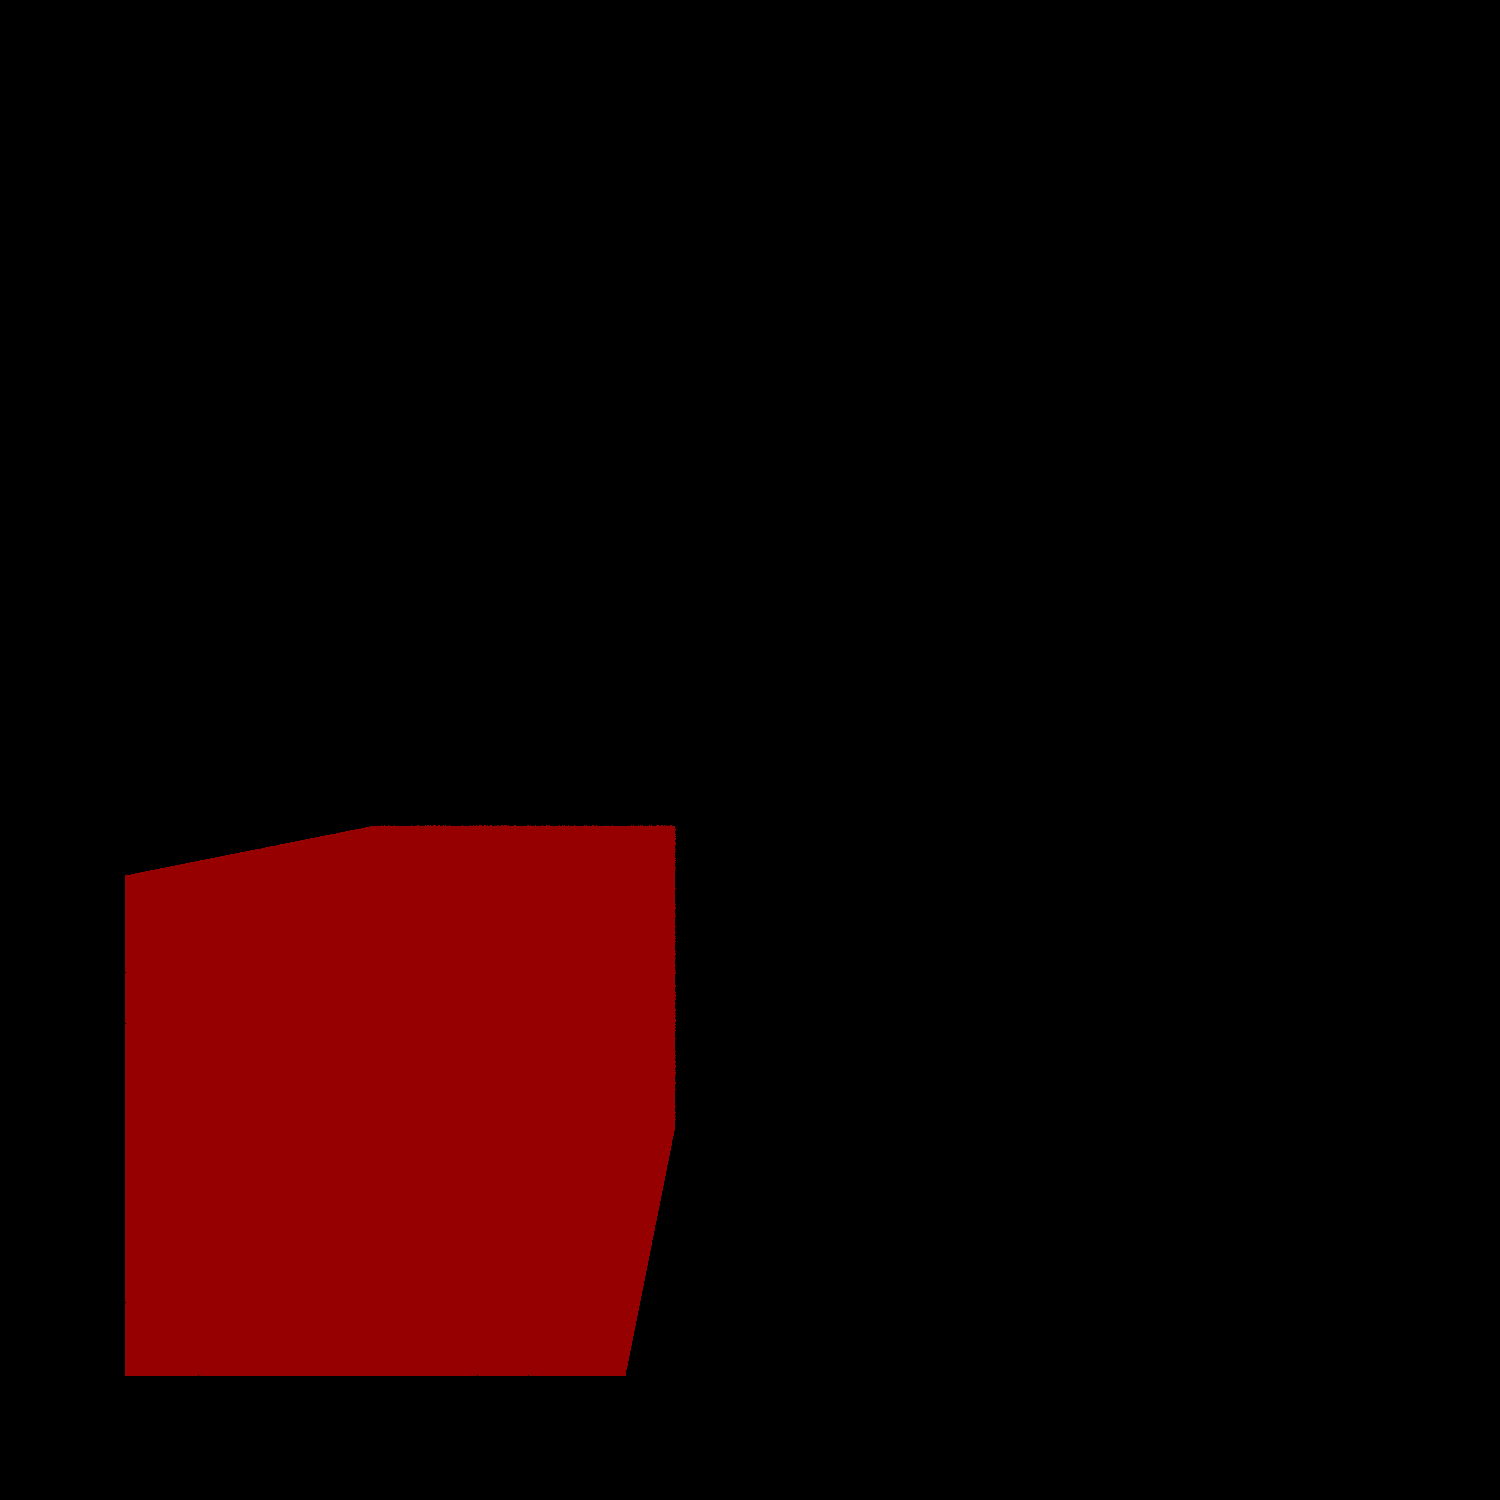
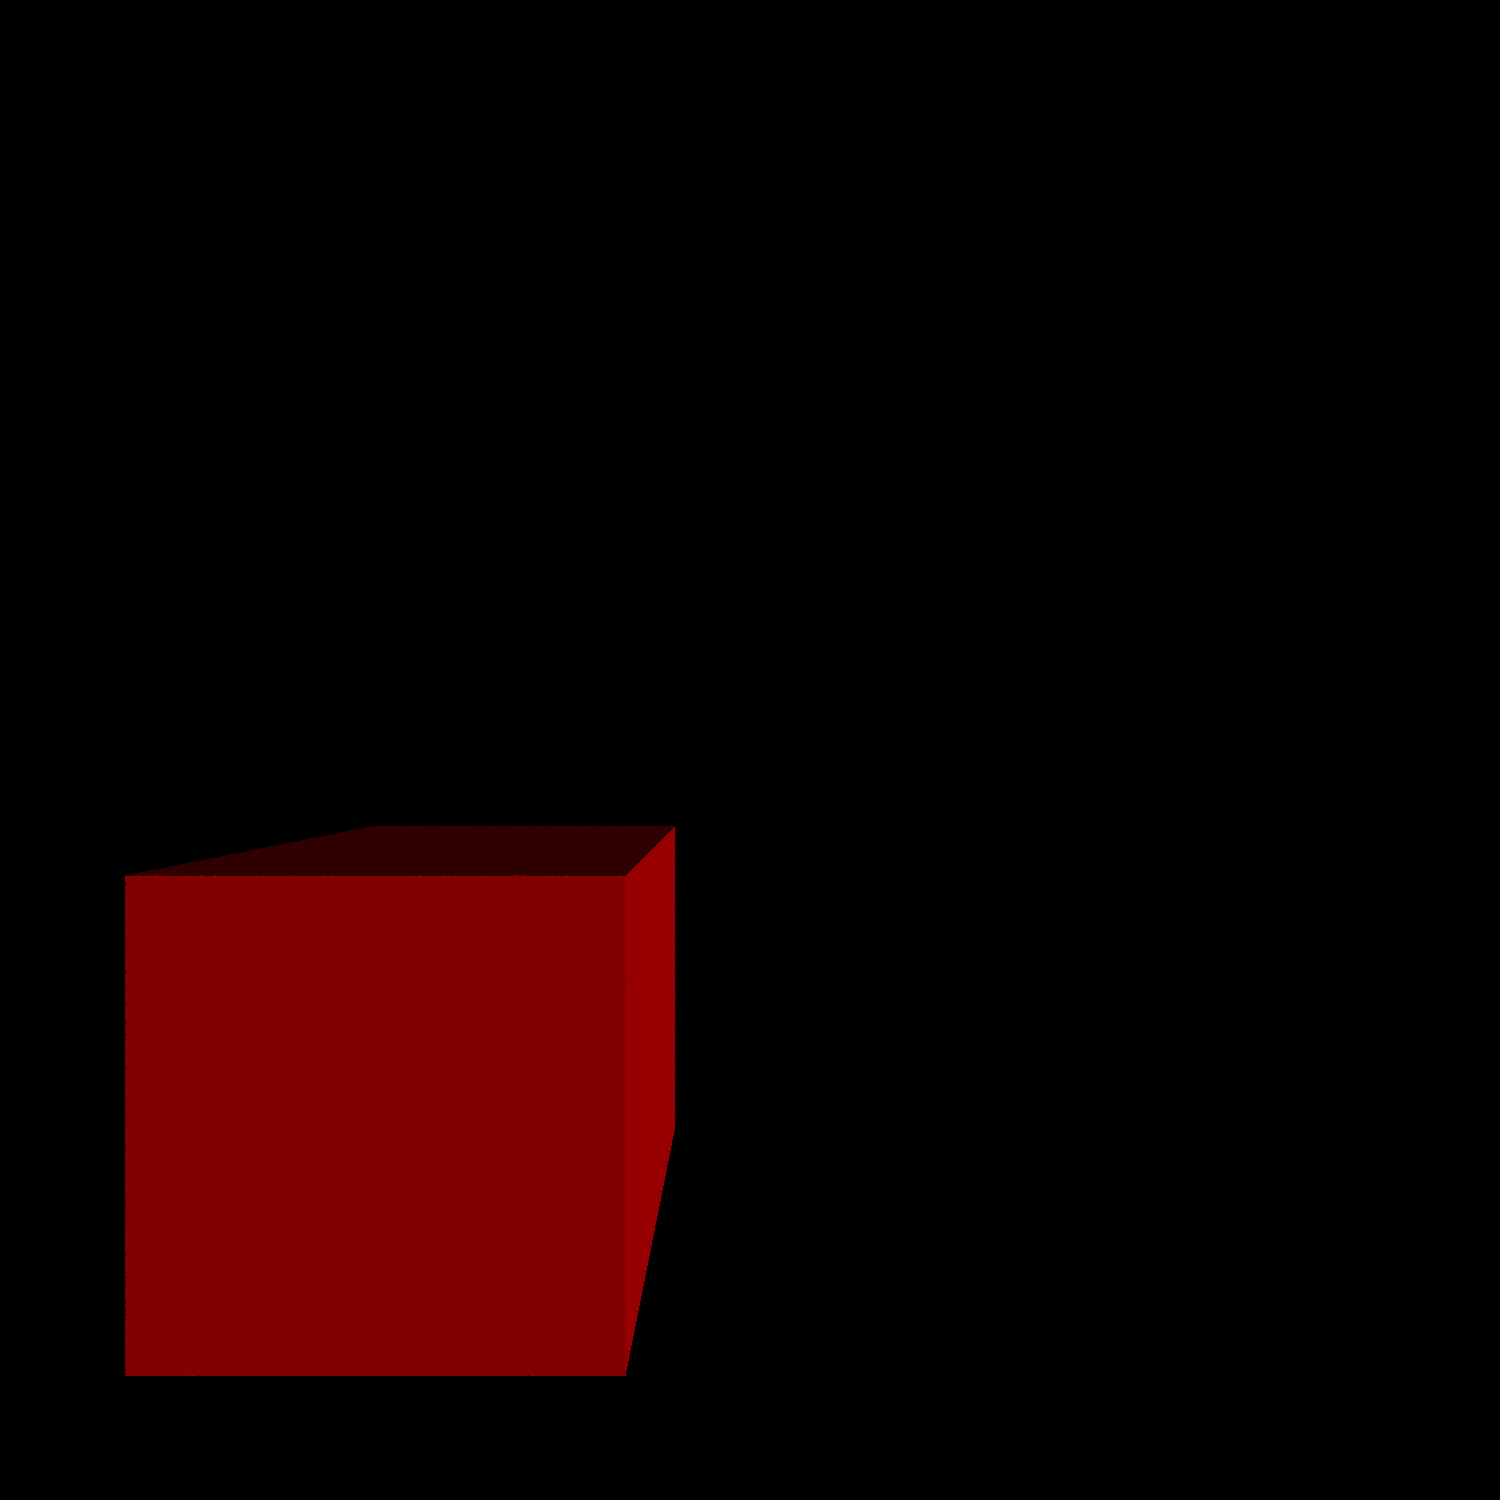
normals on a box

Changed region(s): [[0.092, 0.552, 0.46, 0.5827]]

diff --git a/src/cgg/geom/Box.java b/src/cgg/geom/Box.java
@@ -22,27 +22,32 @@ class TValueTuple
 	}
 }
 
-// FIXME: this is not a cube but a quad. fix due to marketing issues
-public class Cube implements Geometry
+public class Box implements Geometry
 {
+	private Vec3 position;
 	private Vec3 bmin;
 	private Vec3 bmax;
 	private Color colour;
 
-	public Cube(Vec3 position,double width,double height,double depth,Color colour)
+	public Box(Vec3 position,double width,double height,double depth,Color colour)
 	{
-		Vec3 __HDim = vec3(width*.5,height*.5,depth*.5);
+		Vec3 __HDim = multiply(vec3(width,height,depth),.5);
+		this.position = position;
 		this.bmin = subtract(position,__HDim);
 		this.bmax = add(position,__HDim);
 		this.colour = colour;
 	}
 
-	public Cube(Vec3 bmin,Vec3 bmax,Color colour)
+	/*
+	public Box(Vec3 bmin,Vec3 bmax,Color colour)
 	{
+		this.position =
 		this.bmin = bmin;
 		this.bmax = bmax;
 		this.colour = colour;
 	}
+	*/
+	// TODO
 
 	public Queue<HitTuple> intersect(Ray r)
 	{
@@ -75,7 +80,10 @@ public class Cube implements Geometry
 		if (r.paramInRange(t))
 		{
 			Vec3 __Position = r.calculatePosition(t);
-			Vec3 __Normal = vec3(1,0,0);  // TODO
+			Vec3 lp = normalize(subtract(__Position,position));
+			boolean hx = (abs(lp.x())>abs(lp.y()))&&(abs(lp.x())>abs(lp.z()));
+			boolean hy = !hx&&(abs(lp.y())>abs(lp.z()));
+			Vec3 __Normal = normalize(vec3(hx?lp.x():0,hy?lp.y():0,!(hx||hy)?lp.z():0));
 			return new Hit(t,__Position,__Normal,colour);
 		}
 		return null;

diff --git a/src/cgg/RayTracer.java b/src/cgg/RayTracer.java
@@ -34,4 +34,9 @@ public class RayTracer implements Sampler
 		Color diffuse = multiply(.9*max(0,dot(lightDir,hit.normal())),hit.colour());
 		return add(ambient,diffuse);
 	}
+
+	public Color _shadeNormals(Hit hit)
+	{
+		return color(hit.normal());
+	}
 }

diff --git a/src/cgg/a03/Scene.java b/src/cgg/a03/Scene.java
@@ -19,7 +19,7 @@ public class Scene
 
 	private void _die()
 	{
-		Cube cube = new Cube(vec3(-.75,.75,-2),1,1,1,color(.5,0,0));
+		Box cube = new Box(vec3(-.75,.75,-2),1,1,1,color(.5,0,0));
 		complex = new Complex(cube,null,JoinOperation.UNION);
 	}
 
